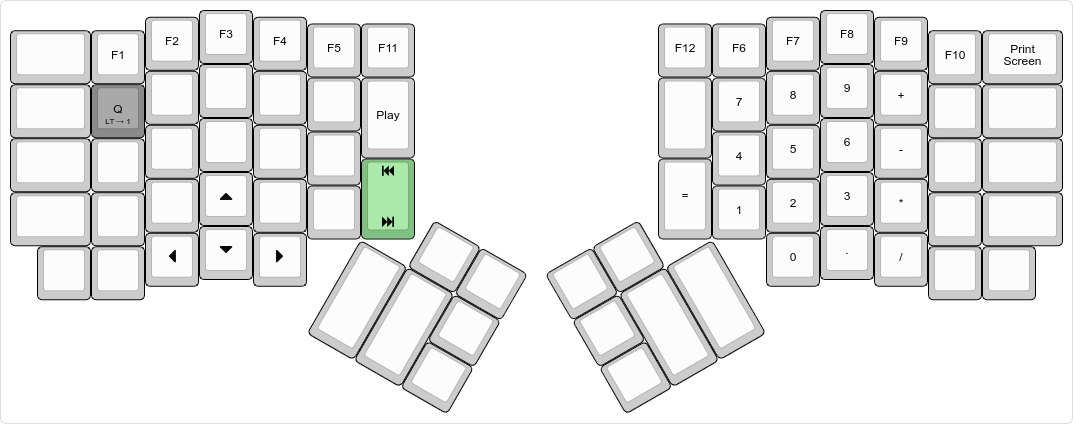
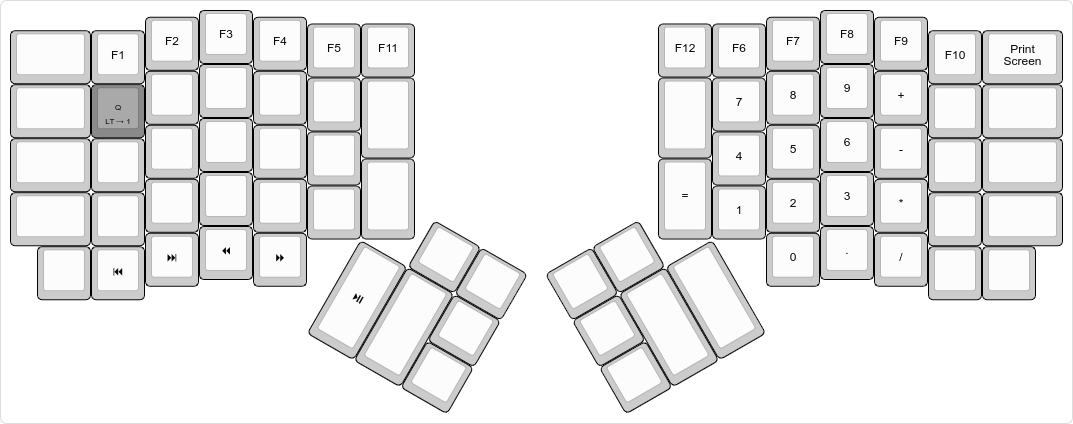
Updated numpad layer with media keys. Moved arrow cluster to navigation layer.

diff --git a/keymap.c b/keymap.c
@@ -35,8 +35,6 @@ enum {
     TD_SAVE_UNDO_REDO,
     // app launcher, vscode command palette, file search
     TD_APP_LAUNCHER_CMD_PALETTE,
-    // next track and prev track
-    TD_NEXT_PREV_TRACK,
     // switching layers with a single key
     TD_LAYER_SWITCH,
 };
@@ -68,14 +66,14 @@ const uint16_t PROGMEM keymaps[][MATRIX_ROWS][MATRIX_COLS] = {
     [NUMPAD] = LAYOUT_ergodox(
         // left hand
         _______, KC_F1, KC_F2, KC_F3, KC_F4, KC_F5, KC_F11,
-        _______, _______, _______, _______, _______, _______, KC_MEDIA_PLAY_PAUSE,
+        _______, _______, _______, _______, _______, _______, _______,
         _______, _______, _______, _______, _______, _______,
-        _______, _______, _______, KC_UP, _______, _______, TD(TD_NEXT_PREV_TRACK),
-        _______, _______, KC_LEFT, KC_DOWN, KC_RIGHT,
+        _______, _______, _______, _______, _______, _______, _______,
+        _______, KC_MEDIA_PREV_TRACK, KC_MEDIA_NEXT_TRACK, KC_MEDIA_REWIND, KC_MEDIA_FAST_FORWARD,
 
         _______, _______,
         _______,
-        _______, _______, _______,
+        KC_MEDIA_PLAY_PAUSE, _______, _______,
 
         // right hand
         KC_F12, KC_F6, KC_F7, KC_F8, KC_F9, KC_F10, KC_PSCREEN,
@@ -91,9 +89,9 @@ const uint16_t PROGMEM keymaps[][MATRIX_ROWS][MATRIX_COLS] = {
     [MOUSE] = LAYOUT_ergodox(
         // left hand
         _______, _______, _______, _______, _______, _______, _______,
-        _______, _______, LCTL(LALT(KC_LEFT)),  _______, LCTL(LALT(KC_RIGHT)), _______, _______,
-        _______, _______, LSFT(LGUI(KC_LEFT)), _______, LSFT(LGUI(KC_RIGHT)), _______,
-        _______, _______, MEH(KC_LEFT), _______,  MEH(KC_RIGHT), _______, _______,
+        _______, _______, _______, _______, _______, _______, _______,
+        _______, _______, _______, _______, _______, _______,
+        _______, _______, _______, _______, _______, _______, _______,
         _______, _______, _______, _______, _______,
 
         _______, _______,
@@ -104,8 +102,8 @@ const uint16_t PROGMEM keymaps[][MATRIX_ROWS][MATRIX_COLS] = {
         _______, _______, _______, _______, _______, _______, _______,
         _______, _______, KC_MS_BTN1, KC_MS_UP, KC_MS_BTN2, _______, _______,
         _______, KC_MS_LEFT, KC_MS_DOWN, KC_MS_RIGHT, _______, _______,
-        _______, _______, _______, KC_MS_BTN3, _______, _______, _______,
-        _______, _______, _______, _______, _______,
+        _______, _______, _______, KC_MS_BTN3, KC_UP, _______, _______,
+        _______, KC_LEFT, KC_DOWN, KC_RIGHT, _______,
 
         _______, _______,
         _______,
@@ -179,26 +177,6 @@ void save_undo_redo(qk_tap_dance_state_t* state, void* user_data)
     }
 }
 
-void app_launcher_cmd_palette(qk_tap_dance_state_t* state, void* user_data)
-{
-    if (state->count == 1) {
-        // Application Launcher
-        register_code(KC_LGUI);
-        register_code(KC_SPACE);
-        unregister_code(KC_SPACE);
-        unregister_code(KC_LGUI);
-    }
-    else if (state->count == 2) {
-        // VSCode Command Palette
-        register_code(KC_LCTL);
-        register_code(KC_LSFT);
-        register_code(KC_P);
-        unregister_code(KC_P);
-        unregister_code(KC_LSFT);
-        unregister_code(KC_LCTL);
-    }
-}
-
 void layer_switch_key(qk_tap_dance_state_t *state, void *user_data) {
     if (state->count == 2) {
         layer_on(NUMPAD);        //define double tap here
@@ -219,9 +197,7 @@ qk_tap_dance_action_t tap_dance_actions[] = {
     // Tap once for save, twice for undo, thrice for redo
     [TD_SAVE_UNDO_REDO] = ACTION_TAP_DANCE_FN(save_undo_redo),
     // Tap once for app launcher, twice for vs code cmd palette, thrice for vs code quick open
-    [TD_APP_LAUNCHER_CMD_PALETTE] = ACTION_TAP_DANCE_FN(app_launcher_cmd_palette),
-    // Tap once for next track, twice for prev track
-    [TD_NEXT_PREV_TRACK] = ACTION_TAP_DANCE_DOUBLE(KC_MEDIA_NEXT_TRACK, KC_MEDIA_PREV_TRACK),
+    [TD_APP_LAUNCHER_CMD_PALETTE] = ACTION_TAP_DANCE_DOUBLE(LGUI(KC_D), LCTL(LSFT(KC_P))),
     // Tap once for base layer, twice for numpad, three taps for mouse layer
     [TD_LAYER_SWITCH] = ACTION_TAP_DANCE_FN(layer_switch_key)
 };

diff --git a/README.md b/README.md
@@ -39,10 +39,11 @@ To build it, you will need the [QMK][qmk] firmware checked out, and this directo
 [qmk]: https://github.com/qmk/qmk_firmware
 
 ```
+
+$ git clone https://github.com/qmk/qmk_firmware.git
 $ git clone https://github.com/iynaix/ergodox-layout.git
+$ ln -s ergodox-layout qmk_firmware/layouts/community/ergodox/iynaix
 $ cd qmk_firmware
-$ git clone https://github.com/iynaix/ergodox-layout.git \
-            layouts/community/ergodox/iynaix
 $ make ergodox_ez:iynaix:hex
 $ teensy-loader-cli -v -mmcu=atmega32u4 -w ergodox_ez_iynaix.hex
 ```
